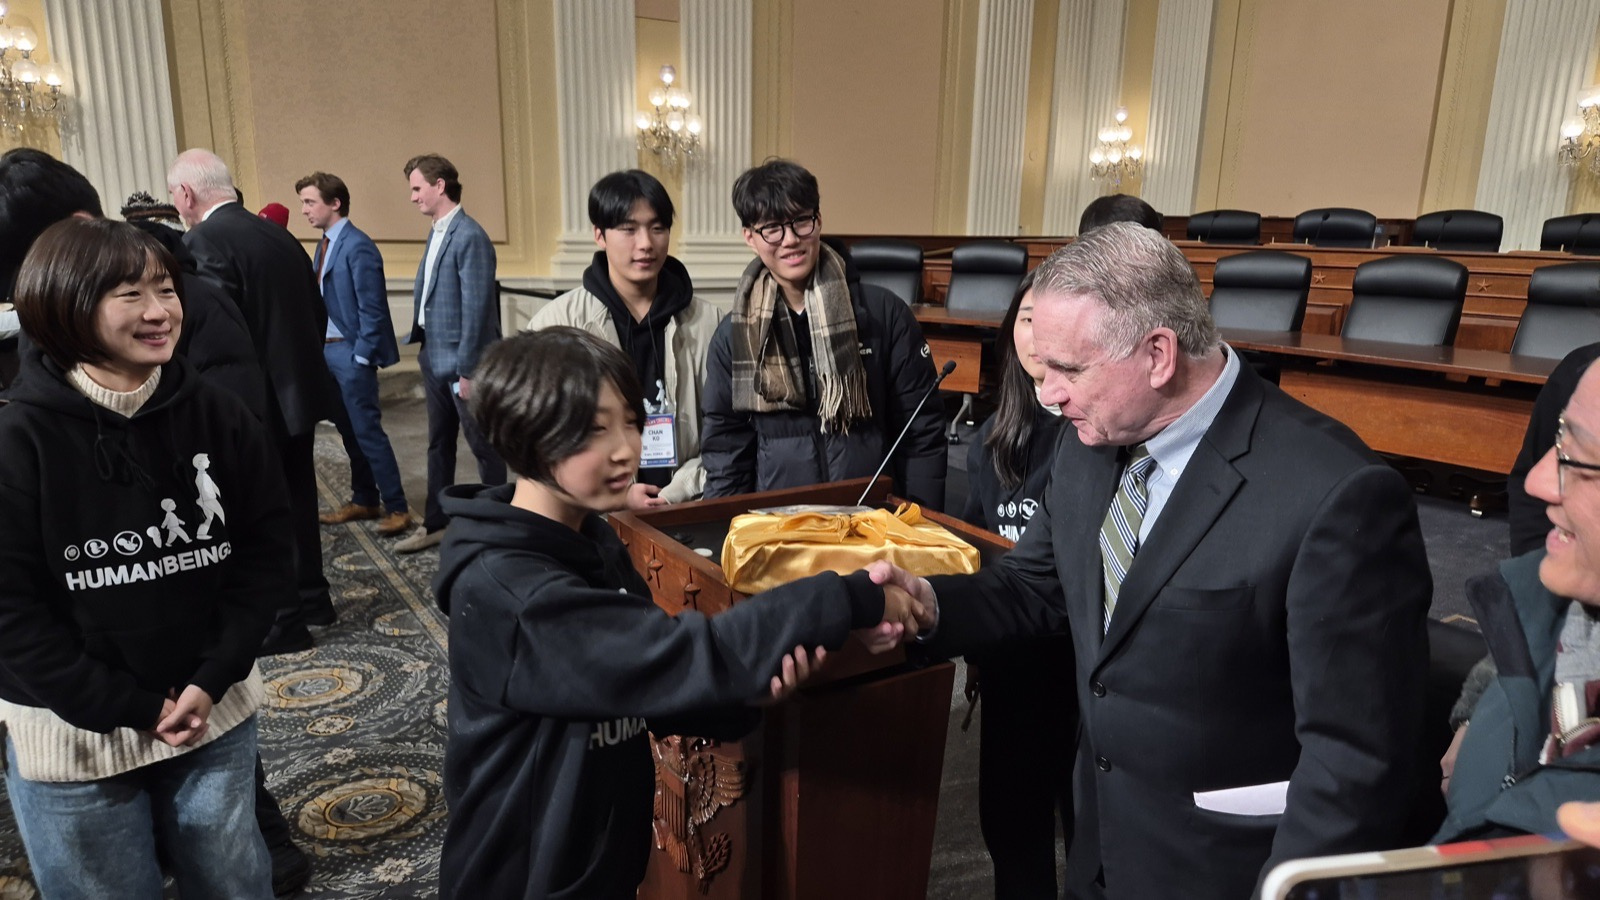
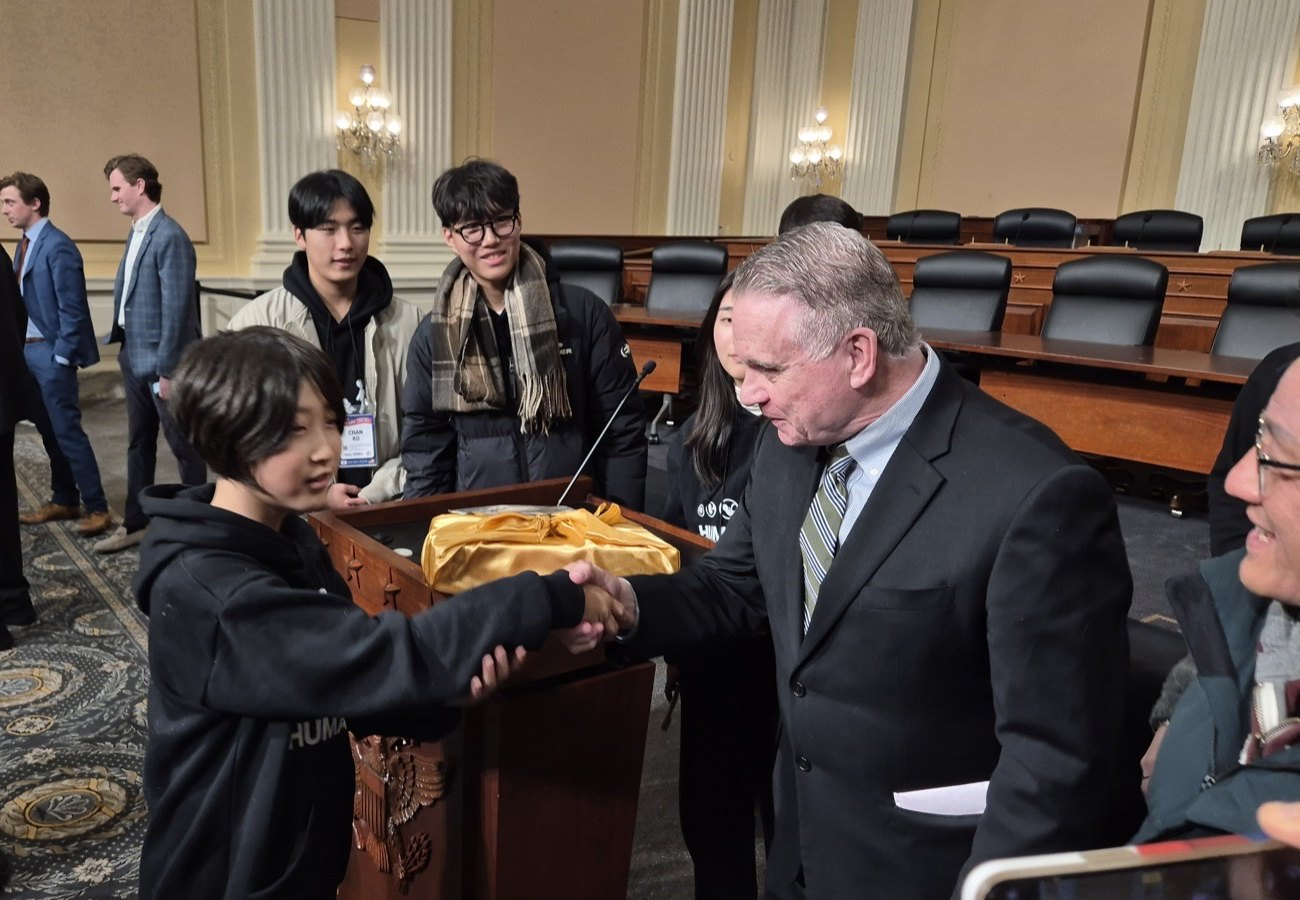
메인 첫 화면 두 번째 사진: 왼쪽 인물 잘라냄
- main2.jpg 왼쪽 300px(1600x900 → 1300x900)을 잘라 맨 왼쪽 인물이 나오지 않게 함
- 좁아진 사진에 맞춰 object-position 55% 30%(넓은 화면에서 머리 잘림 방지,
  휴대폰에서 악수 장면이 가운데 오도록), 캐시 무효화 ?v=2

diff --git a/index.html b/index.html
@@ -204,7 +204,7 @@
     <div class="hero-bg" style="position:absolute;inset:0;"></div>
     <div class="hero-slides" aria-hidden="true">
       <img src="assets/images/Main/main1.jpg" class="hero-slide" alt="" fetchpriority="high" decoding="async">
-      <img src="assets/images/Main/main2.jpg" class="hero-slide" alt="" fetchpriority="low" decoding="async">
+      <img src="assets/images/Main/main2.jpg?v=2" class="hero-slide" alt="" fetchpriority="low" decoding="async" style="object-position:55% 30%;">
       <img src="assets/images/Main/main3.jpg" class="hero-slide" alt="" fetchpriority="low" decoding="async">
     </div>
     <div class="hero-overlay" style="position:absolute;inset:0;"></div>
